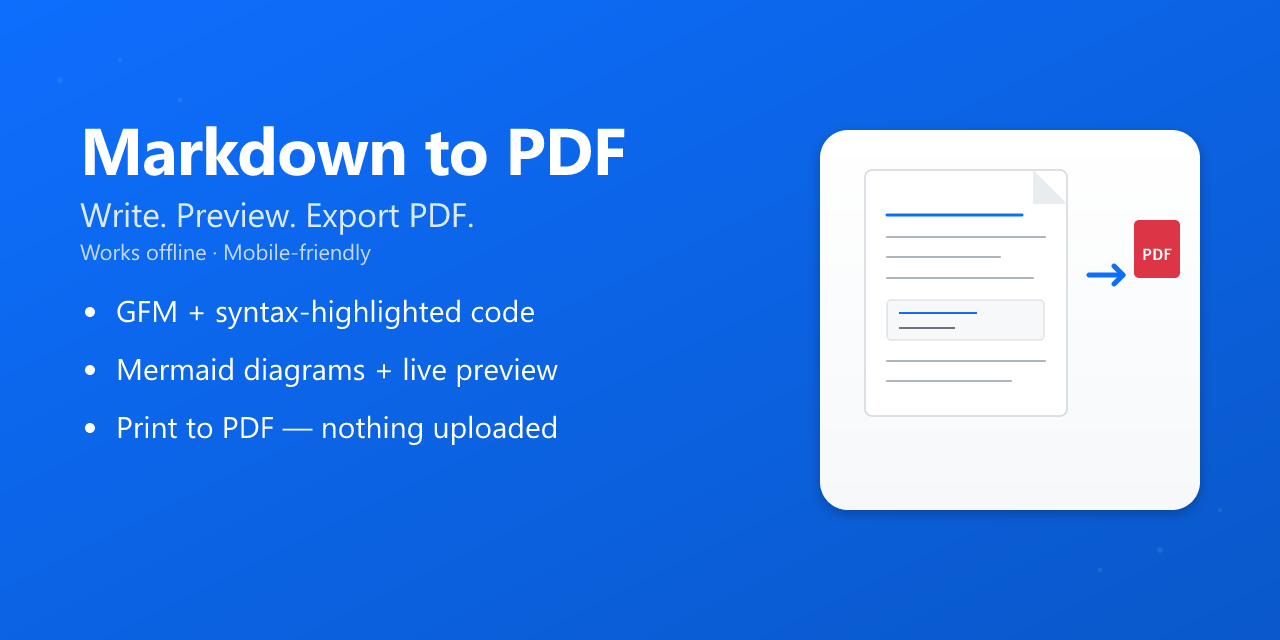
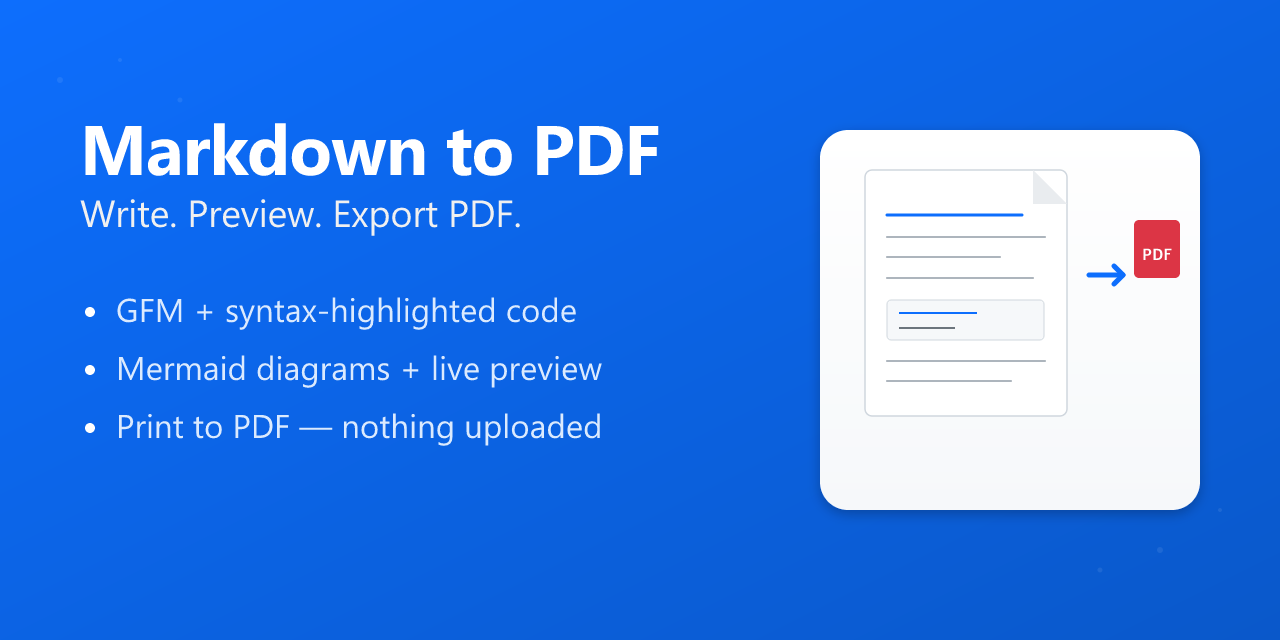
release: v2.9.17 hardening, doc accuracy, build cleanup
- Bigger headline, subtitle, bullets in github-social preview; drop secondary line.
- Wrap app in top-level ErrorBoundary so a crash shows a recoverable Reload screen.
- Fix react-helmet downgrading the static robots meta at runtime; remove the dep.
- Document the actual rehype-raw + rehype-sanitize pipeline; lock the order invariant.
- Add public/favicon.ico for legacy clients and unfurl bots.
- Migrate transformWithEsbuild -> transformWithOxc and drop deprecated optimizeDeps.esbuildOptions.
- Add regression test asserting Previewer stays mounted from the editor tab on mobile.

diff --git a/src/App/Components/Header/index.js b/src/App/Components/Header/index.js
@@ -1,6 +1,5 @@
 import React from 'react';
 import styled from 'styled-components';
-import { Helmet } from 'react-helmet';
 import { FileEarmarkPdfFill, Github } from 'react-bootstrap-icons';
 import UploadButton from './Upload.js';
 import { waitForMermaidRenders } from '../Markdown/Previewer/Mermaid.jsx';
@@ -28,34 +27,29 @@ const Header = ({ className }) => {
   };
 
   return (
-    <>
-      <Helmet>
-        <meta name="robots" content="noindex, nofollow" />
-      </Helmet>
-      <header className={className + ' no-print'}>
-        <p className="project">
-          <strong className="brand-title">Markdown to PDF</strong>{' '}
-          <small className="version-chip">v{version}</small>
-        </p>
+    <header className={className + ' no-print'}>
+      <p className="project">
+        <strong className="brand-title">Markdown to PDF</strong>{' '}
+        <small className="version-chip">v{version}</small>
+      </p>
 
-        <div className="menu">
-          <UploadButton className="button upload" />
-          <p className="button download primary" onClick={onTransform} tabIndex={0}>
-            <FileEarmarkPdfFill size={18} aria-label="Export to PDF" />
-            <span>Export to .pdf</span>
-          </p>
-          <a
-            className="button github-link icon-only"
-            href={SOURCE_REPO_URL}
-            target="_blank"
-            rel="noopener noreferrer"
-            aria-label="View source on GitHub"
-          >
-            <Github size={18} aria-hidden />
-          </a>
-        </div>
-      </header>
-    </>
+      <div className="menu">
+        <UploadButton className="button upload" />
+        <p className="button download primary" onClick={onTransform} tabIndex={0}>
+          <FileEarmarkPdfFill size={18} aria-label="Export to PDF" />
+          <span>Export to .pdf</span>
+        </p>
+        <a
+          className="button github-link icon-only"
+          href={SOURCE_REPO_URL}
+          target="_blank"
+          rel="noopener noreferrer"
+          aria-label="View source on GitHub"
+        >
+          <Github size={18} aria-hidden />
+        </a>
+      </div>
+    </header>
   );
 };
 

diff --git a/src/App/ErrorBoundary.js b/src/App/ErrorBoundary.js
@@ -1,0 +1,62 @@
+import React from 'react';
+
+class ErrorBoundary extends React.Component {
+  constructor(props) {
+    super(props);
+    this.state = { hasError: false };
+  }
+
+  static getDerivedStateFromError() {
+    return { hasError: true };
+  }
+
+  componentDidCatch(error, info) {
+    console.error('App crashed:', error, info);
+  }
+
+  render() {
+    if (!this.state.hasError) return this.props.children;
+    return (
+      <div
+        role="alert"
+        style={{
+          height: '100%',
+          display: 'flex',
+          flexDirection: 'column',
+          alignItems: 'center',
+          justifyContent: 'center',
+          padding: '24px',
+          textAlign: 'center',
+          fontFamily: 'system-ui, sans-serif',
+          color: '#1f2328',
+          backgroundColor: '#ffffff',
+        }}
+      >
+        <h1 style={{ fontSize: '20px', fontWeight: 600, margin: '0 0 8px' }}>
+          Something went wrong.
+        </h1>
+        <p style={{ margin: '0 0 16px', color: '#656d76' }}>
+          The editor stopped responding. Reload the page to recover.
+        </p>
+        <button
+          type="button"
+          onClick={() => window.location.reload()}
+          style={{
+            padding: '8px 16px',
+            fontSize: '14px',
+            fontFamily: 'inherit',
+            border: '1px solid #d0d7de',
+            borderRadius: '6px',
+            backgroundColor: '#f6f8fa',
+            color: '#1f2328',
+            cursor: 'pointer',
+          }}
+        >
+          Reload
+        </button>
+      </div>
+    );
+  }
+}
+
+export default ErrorBoundary;

diff --git a/src/App/Components/Markdown/index.test.js b/src/App/Components/Markdown/index.test.js
@@ -1,19 +1,40 @@
 import React from 'react';
-import { render } from '@testing-library/react';
+import { render, waitFor } from '@testing-library/react';
+import { vi } from 'vitest';
 import { Provider } from 'nonaction';
 import { TextContainer } from '../../Container';
+import useIsMobile from '../../Container/Hooks/useIsMobile.js';
 import Markdown from './index.js';
-// afterEach(cleanup);
-// duplicate of setupTests.js
-test('<Markdown /> Previewer lazy load should work', async () => {
-  const { container } = render(
+
+vi.mock('../../Container/Hooks/useIsMobile.js', () => ({
+  __esModule: true,
+  default: vi.fn(),
+}));
+
+const renderMarkdown = () =>
+  render(
     React.createElement(
       Provider,
       { inject: [TextContainer] },
       React.createElement(Markdown),
     ),
   );
+
+test('<Markdown /> Previewer lazy load should work', async () => {
+  useIsMobile.mockReturnValue(false);
+  const { container } = renderMarkdown();
   expect(container.textContent).not.toEqual('');
+});
+
+// Regression guard for the v2.9.16 mobile print fix: on mobile, the Previewer
+// must remain mounted even on the editor tab so that Header.onTransform can
+// query `.preview` and window.print() has the rendered preview in the DOM.
+test('<Markdown /> on mobile keeps .preview in the DOM from the editor tab', async () => {
+  useIsMobile.mockReturnValue(true);
+  const { container } = renderMarkdown();
+  await waitFor(() => {
+    expect(container.querySelector('.preview')).not.toBeNull();
+  });
 });
 
 // const Editor = container.querySelector('.CodeMirror');

diff --git a/vite.config.js b/vite.config.js
@@ -1,4 +1,4 @@
-import { defineConfig, transformWithEsbuild } from 'vite';
+import { defineConfig, transformWithOxc } from 'vite';
 import react from '@vitejs/plugin-react';
 import { VitePWA } from 'vite-plugin-pwa';
 
@@ -13,9 +13,9 @@ const treatJsFilesAsJsx = {
       return null;
     }
 
-    return transformWithEsbuild(code, id, {
-      loader: 'jsx',
-      jsx: 'automatic',
+    return transformWithOxc(code, id, {
+      lang: 'jsx',
+      jsx: { runtime: 'automatic' },
     });
   },
 };
@@ -75,11 +75,6 @@ export default defineConfig(({ command }) => ({
   },
   optimizeDeps: {
     entries: ['index.html'],
-    esbuildOptions: {
-      loader: {
-        '.js': 'jsx',
-      },
-    },
   },
   test: {
     environment: 'jsdom',

diff --git a/src/App/index.js b/src/App/index.js
@@ -3,14 +3,17 @@ import styled from 'styled-components';
 import { Header, Markdown } from './Components';
 import { Provider } from 'nonaction';
 import { TextContainer } from './Container';
+import ErrorBoundary from './ErrorBoundary.js';
 const App = ({ className }) => {
   return (
-    <div className={className} id="md2pdf-app">
-      <Provider inject={[TextContainer]}>
-        <Header />
-        <Markdown />
-      </Provider>
-    </div>
+    <ErrorBoundary>
+      <div className={className} id="md2pdf-app">
+        <Provider inject={[TextContainer]}>
+          <Header />
+          <Markdown />
+        </Provider>
+      </div>
+    </ErrorBoundary>
   );
 };
 export default styled(App)`

diff --git a/CHANGELOG.md b/CHANGELOG.md
@@ -2,6 +2,18 @@
 
 **Labels:** **Build**, **Chore**, **CI**, **Docs**, **Enhance**, **Feat**, **Fix**, **Perf**, **Revert**, **Sec**, **Style**; add **(WIP)** only for incomplete work.
 
+## [2.9.17] - 2026-05-05
+
+- **Enhance:** Bigger headline, subtitle, and bullets in the GitHub social preview; drop the secondary copy line.
+- **Enhance:** Wrap the app in a top-level ErrorBoundary so a crash shows a recoverable Reload screen instead of white.
+- **Fix:** `react-helmet` no longer downgrades the static `robots` meta at runtime; the stronger HTML tag stays intact.
+- **Sec:** Document the actual preview pipeline (`rehype-raw` then `rehype-sanitize`) and lock the ordering invariant.
+- **Style:** Add `public/favicon.ico` for legacy clients and unfurl bots that still GET it from the root.
+- **Docs:** Fix stale `.gitignore` comment and the `yarn hero:sync` row in the README scripts table.
+- **Build:** Migrate `transformWithEsbuild` to `transformWithOxc` and drop deprecated `optimizeDeps.esbuildOptions`.
+- **Build:** Remove unmaintained `react-helmet` from dependencies; meta tags live in the static HTML head.
+- **Chore:** Add a regression test asserting the Previewer stays mounted from the editor tab on mobile.
+
 ## [2.9.16] - 2026-05-05
 
 - **Enhance:** Tighten title and meta description across head and `og:*`/`twitter:*` tags for stronger social previews.

diff --git a/CLAUDE.md b/CLAUDE.md
@@ -10,7 +10,7 @@ Hard scope rules (from `CONTRIBUTING.md`):
 
 - **No server-side uploads or backends.** This is offline-first; conversion runs in the browser. Do not propose features that require a server for conversion.
 - **Bundle size matters.** Don't add dependencies without a clear offline-first benefit.
-- **No raw HTML execution in markdown preview** (XSS surface) — the renderer pipeline is `react-markdown` + `remark-gfm` + `rehype-sanitize`. Don't introduce `rehype-raw` into the preview path without explicit sign-off.
+- **Renderer pipeline:** `react-markdown` + `remark-gfm` + `rehype-raw` + `rehype-sanitize`, in that order. `rehype-raw` parses the raw HTML embedded in `.md` files (so users can include `<style>` blocks etc.); `rehype-sanitize` runs **after** it and strips anything not on the allow-list in `Preview.js#sanitizeSchema`. **Never reorder these two** (sanitize must run last) and **never remove `rehype-sanitize`** — that's the XSS guarantee.
 
 ## Common commands
 

diff --git a/README.md b/README.md
@@ -131,7 +131,7 @@ flowchart TD
 | `yarn build`            | Production build                                         |
 | `yarn test`             | Run tests                                                |
 | `yarn preview`          | Preview production build (`dist/`)                       |
-| `yarn hero:sync`        | Copy `docs/readme-hero.png` to `public/static/og-img.png` |
+| `yarn hero:sync`        | Render social-preview SVGs to PNGs (og:image + GitHub repo card) |
 | `yarn changelog:lint`   | Validate `CHANGELOG.md` formatting                       |
 
 ## Contributing
